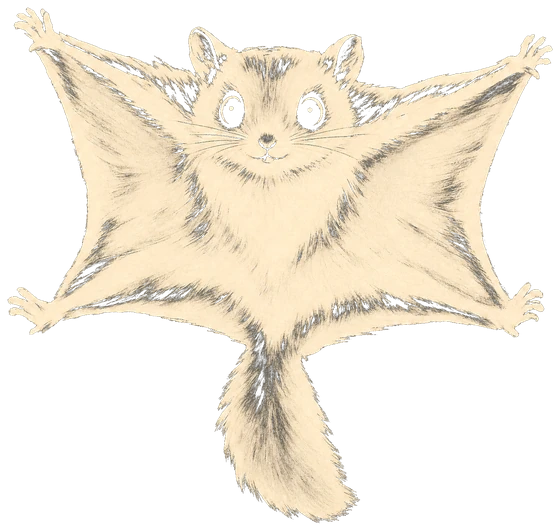
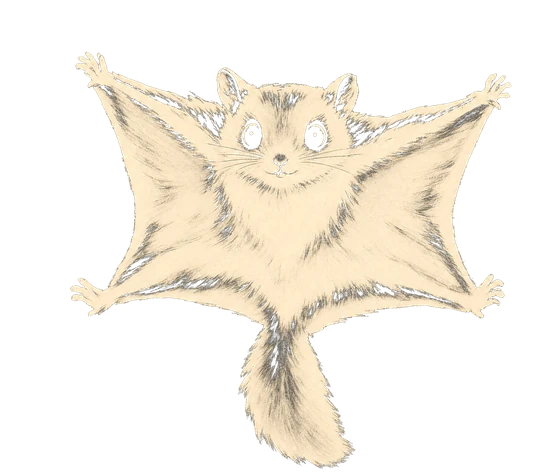
The momonga flies from screen one to screen two
It waits inside the ink, goes down with the flood, and comes back OUT of it —
then glides across the black and lands on the shelf rule beside the 01/01
counter, where it rides the shelf as the page scrolls.

WHY IT LAUNCHES LATE. The obvious build starts the flight at scrollY 0, and it
is wrong: the squirrel is cream and so is the paper, so anything launched over
the hero simply vanishes until the ink catches up with it. The flight therefore
begins at 0.235vh, the moment the flood owns the whole screen. That constraint
turned out to be the better story anyway — the ink does not swallow it, it
throws it.

SCRUBBED, NOT PLAYED. The launch and the glide sit under your finger and run
backwards if you scroll back, the same contract the ink already has. Only the
perch is allowed to persist, because a landing that un-lands looks ridiculous.

THE PATH is a Catmull-Rom spline through five hand-placed points, not a bezier:
Catmull-Rom passes THROUGH every point, so the apex lands where it was put
instead of being pulled somewhere off-screen. It launches backwards off the ink
and to the left, banks at the top — which is where a real glider banks — and
rides one long descending arc across the full width. Phones get a taller, lazier
S; there is no room for that sweep at 390px. Rotation follows the path tangent
but only 55% of the way, because a sprite rotated to the full tangent reads as a
paper plane rather than an animal, and it flips on the bank.
[…]

Changed region(s): [[0.0, 0.0, 1.0, 1.0], [0.6982, 0.4706, 0.7286, 0.5], [0.5464, 0.9118, 0.5768, 0.9412]]

diff --git a/main.js b/main.js
@@ -254,6 +254,174 @@
     blot.addEventListener("click", hop);
   })();
 
+  /* ============================================================
+     THE FLIGHT — the momonga leaves the ink and crosses to screen two
+     ------------------------------------------------------------
+     Scrubbed, not played: the launch and the glide sit under your finger and
+     run backwards if you scroll back, which is the same contract the ink
+     already has. Only the settle at the end is a one-shot, because a landing
+     that un-lands looks ridiculous.
+     Three handoffs, each invisible because the positions are measured rather
+     than guessed: the resting figure in the disc -> the flier -> the perch on
+     the shelf rule.
+     ============================================================ */
+  (function () {
+    var flier = document.querySelector(".flier");
+    var head = document.querySelector(".shelf-head");
+    var num = document.querySelector(".shelf-num");
+    if (!flier || !head) return;
+
+    var poses = {
+      leap:  flier.querySelector(".pose-leap"),
+      glide: flier.querySelector(".pose-glide"),
+      land:  flier.querySelector(".pose-land"),
+      perch: flier.querySelector(".pose-perch")
+    };
+    var order = ["leap", "glide", "land", "perch"];
+    /* where each pose owns the path, as a fraction of the flight */
+    /* the braking pose needs a real window or the cross-fade eats it and the
+       glide snaps straight to a perch */
+    var cues = { leap: 0, glide: 0.16, land: 0.74, perch: 0.975 };
+
+    /* Every pose shares one canvas, and inside it the perched animal's feet sit
+       at 83% of the height — the union crop leaves padding below them. Landing
+       "on" the rule therefore means putting THAT line on the rule, not the box
+       centre, or the squirrel floats with half its frame hanging through the
+       shelf. */
+    var FEET = 0.83;
+    var geo = null;
+    function measure() {
+      /* the launch point is the ink's own centre — the disc's box never moves,
+         because the hero is sticky, so this is a fixed point on screen */
+      var blot = document.querySelector(".blot");
+      var s = blot ? blot.getBoundingClientRect() : { left: innerWidth * 0.5, top: innerHeight * 0.5, width: 0, height: 0 };
+      var f = flier.getBoundingClientRect();
+      var W = innerWidth, H = innerHeight;
+      /* The perch is the right-hand end of the shelf rule, next to the 01/01
+         counter — and the flight ENDS when that rule is 70% down the screen,
+         so the landing point is a real place on a real element rather than a
+         number that happens to look right at one window size. */
+      var hr = head.getBoundingClientRect();
+      var nr = num ? num.getBoundingClientRect() : hr;
+      var endScroll = Math.max(H * 0.45, hr.top + scrollY + hr.height - H * 0.70);
+      return {
+        W: W, H: H,
+        fw: f.width || 200, fh: f.height || 190,
+        /* start: dead centre of the figure already sitting in the ink */
+        sx: s.left + s.width / 2, sy: s.top + s.height / 2,
+        /* end: feet on the rule, just left of the counter. The final scale is
+           0.82, so the feet sit (0.83-0.5)*0.82 of a box-height below centre. */
+        ex: nr.left + nr.width / 2 - (W < 760 ? 0 : 40),
+        ey: hr.top + scrollY + hr.height - endScroll - (FEET - 0.5) * 0.82 * (f.height || 190),
+        end: endScroll,
+        ruleX: nr.left + nr.width / 2 - (W < 760 ? 0 : 40)
+      };
+    }
+
+    /* Catmull-Rom through the control points: it passes THROUGH every point,
+       which is what a hand-placed flight path wants. A bezier would only be
+       pulled toward them and the apex would drift off the screen edge. */
+    function spline(pts, t) {
+      var n = pts.length - 1;
+      var i = Math.min(Math.floor(t * n), n - 1);
+      var u = t * n - i;
+      var p0 = pts[Math.max(0, i - 1)], p1 = pts[i], p2 = pts[i + 1], p3 = pts[Math.min(n, i + 2)];
+      var u2 = u * u, u3 = u2 * u;
+      return [
+        0.5 * ((2 * p1[0]) + (-p0[0] + p2[0]) * u + (2*p0[0] - 5*p1[0] + 4*p2[0] - p3[0]) * u2 + (-p0[0] + 3*p1[0] - 3*p2[0] + p3[0]) * u3),
+        0.5 * ((2 * p1[1]) + (-p0[1] + p2[1]) * u + (2*p0[1] - 5*p1[1] + 4*p2[1] - p3[1]) * u2 + (-p0[1] + 3*p1[1] - 3*p2[1] + p3[1]) * u3)
+      ];
+    }
+
+    function path(g) {
+      var W = g.W, H = g.H, narrow = W < 760;
+      /* It launches BACKWARDS off the ink and to the left, banks at the apex,
+         then rides one long descending glide across the whole width. One turn,
+         at the top, where a real glider banks. On a phone the screen is too
+         narrow for that sweep, so it becomes a tall lazy S instead. */
+      return narrow
+        ? [[g.sx, g.sy], [W * 0.16, H * 0.44], [W * 0.80, H * 0.30], [W * 0.24, H * 0.52], [g.ex, g.ey]]
+        : [[g.sx, g.sy], [W * 0.30, H * 0.30], [W * 0.17, H * 0.13], [W * 0.62, H * 0.30], [g.ex, g.ey]];
+    }
+
+    function ease(p) { return p; }
+
+    var last = -1;
+    function place(p) {
+      if (!geo) geo = measure();
+      var pts = path(geo);
+      var a = spline(pts, Math.min(1, Math.max(0, p)));
+      var b = spline(pts, Math.min(1, Math.max(0, p) + 0.012));
+      var dx = b[0] - a[0], dy = b[1] - a[1];
+      var facingLeft = dx < 0;
+      /* bank into the direction of travel, but only part way: a sprite rotated
+         to the full tangent reads as a paper plane, not an animal */
+      var ang = Math.atan2(dy, Math.abs(dx) < 0.001 ? 0.001 : Math.abs(dx)) * (180 / Math.PI) * 0.55;
+      /* It comes OUT of the flood: small and faint at first, as if the ink
+         itself let go of it, then up to full size for the glide and a little
+         smaller again as it settles onto a shelf that is further away. */
+      var burst = Math.min(1, p / 0.09);
+      var scale = (0.52 + burst * 0.48) * (1 + Math.sin(Math.min(1, p) * Math.PI) * 0.16 - Math.min(1, p) * 0.18);
+      gsap.set(flier, {
+        x: a[0] - geo.fw / 2, y: a[1] - geo.fh / 2,
+        rotation: ang, scaleX: facingLeft ? -scale : scale, scaleY: scale,
+        opacity: burst
+      });
+      /* pose cross-fade — whichever cue we have passed owns the frame */
+      var want = "rest", i;
+      for (i = 0; i < order.length; i++) if (p >= cues[order[i]]) want = order[i];
+      if (want !== last) {
+        last = want;
+        order.forEach(function (k) {
+          if (poses[k]) gsap.to(poses[k], { opacity: k === want ? 1 : 0, duration: 0.28, ease: "power2.out", overwrite: true });
+        });
+      }
+    }
+
+    var de = document.documentElement;
+    /* The flight does NOT start at the top of the page. The squirrel is cream
+       and so is the paper — launched over the hero it would simply vanish
+       until the ink caught up with it. So it waits inside the disc, goes down
+       with the flood, and only comes back out once the ink owns the whole
+       screen. Which is the better story anyway: the ink does not swallow it,
+       it throws it. */
+    function launchAt() { return innerHeight * 0.235; }
+    ScrollTrigger.create({
+      start: launchAt,
+      end: function () { geo = measure(); return Math.max(launchAt() + innerHeight * 0.35, geo.end); },
+      scrub: true, invalidateOnRefresh: true,
+      onUpdate: function (self) {
+        var p = ease(self.progress);
+        de.classList.toggle("in-flight", p > 0.001);
+        place(p);
+      },
+      onRefresh: function () { geo = measure(); }
+    });
+
+    /* Once it is down it stops being a fixed overlay and starts riding the
+       page: its screen position is re-read from the rule every frame, so it
+       stays on the shelf while the shelf scrolls. Then it lets go. */
+    ScrollTrigger.create({
+      start: function () { geo = measure(); return Math.max(launchAt() + innerHeight * 0.35, geo.end); },
+      end: function () { return Math.max(launchAt() + innerHeight * 0.35, measure().end) + innerHeight * 1.15; },
+      scrub: true, invalidateOnRefresh: true,
+      onUpdate: function (self) {
+        if (!geo) geo = measure();
+        var hr = head.getBoundingClientRect();
+        var nr = num ? num.getBoundingClientRect() : hr;
+        var scale = 0.84;
+        gsap.set(flier, {
+          x: nr.left + nr.width / 2 - (innerWidth < 760 ? 0 : 40) - geo.fw / 2,
+          y: hr.bottom - geo.fh * (0.5 + (FEET - 0.5) * scale),
+          rotation: 0, scaleX: scale, scaleY: scale,
+          opacity: 1 - Math.max(0, (self.progress - 0.68) / 0.32)
+        });
+      }
+    });
+
+    addEventListener("resize", function () { geo = null; }, { passive: true });
+  })();
+
   /* ---------- the ink comes alive ----------
      The reference's toy takes the decorations already scattered on its hero and
      drops them into a physics world, where they tumble and pile up. That is why

diff --git a/index-tr.html b/index-tr.html
@@ -39,7 +39,7 @@
   <link rel="preload" as="image" imagesrcset="assets/horizon-900.webp 900w, assets/horizon-1400.webp 1400w, assets/horizon.webp 1920w" imagesizes="110vw" fetchpriority="high">
   <link rel="preload" as="image" href="assets/disc-ink.webp" fetchpriority="high">
   <link rel="preload" as="image" href="assets/mascot.webp" fetchpriority="high">
-  <link rel="stylesheet" href="style.css?v=97">
+  <link rel="stylesheet" href="style.css?v=99">
   <script type="application/ld+json">
   {"@context": "https://schema.org", "@type": "Organization", "name": "217 Products", "url": "https://217products.com/", "logo": "https://217products.com/assets/icon-512.png", "image": "https://217products.com/assets/zen.webp", "description": "Ankara’dan dünyaya açılan bağımsız bir ürün şirketiyiz. Gördüğümüz boşluklara hızlı, sade ve uzun ömürlü ürünler inşa ediyoruz.", "email": "destek217product@gmail.com", "foundingDate": "2026", "address": {"@type": "PostalAddress", "addressLocality": "Ankara", "addressCountry": "TR"}}
   </script>
@@ -69,6 +69,8 @@
 
   <aside class="tate" aria-hidden="true"><span class="seal">二一七</span><span class="tate-t">ANKARA</span></aside>
 
+  <div class="flier" aria-hidden="true"><img class="pose pose-leap" src="assets/momo-leap.webp" alt="" width="560" height="476" decoding="async"><img class="pose pose-glide" src="assets/momo-glide.webp" alt="" width="560" height="476" decoding="async"><img class="pose pose-land" src="assets/momo-land.webp" alt="" width="560" height="476" decoding="async"><img class="pose pose-perch" src="assets/momo-perch.webp" alt="" width="560" height="476" decoding="async"></div>
+
   <main id="main">
 
     <!-- 1 · HERO — one sentence on paper, the plate at its foot -->
@@ -80,7 +82,7 @@
       <div class="specks" aria-hidden="true"><i></i><i></i><i></i><i></i><i></i><i></i><i></i><i></i><i></i><i></i><i></i><i></i><i></i><i></i><i></i><i></i></div>
 
       <h1 class="hero-head rise">
-        <span class="hero-line">En iyinin <span class="blot"><img class="blot-ink" src="assets/disc-ink.webp" alt="" width="320" height="320" decoding="sync" fetchpriority="high"><i class="blot-fill"></i><img class="blot-figure" src="assets/mascot.webp" alt="" width="560" height="530" decoding="sync" fetchpriority="high"></span> ardında</span>
+        <span class="hero-line">En iyinin <span class="blot"><img class="blot-ink" src="assets/disc-ink.webp" alt="" width="320" height="320" decoding="sync" fetchpriority="high"><i class="blot-fill"></i><img class="blot-figure" src="assets/mascot.webp" alt="" width="560" height="476" decoding="sync" fetchpriority="high"></span> ardında</span>
         <span class="hero-line">hep bir <em>fikir</em> vardır.</span>
       </h1>
 
@@ -251,6 +253,6 @@
   <script src="vendor/ScrollTrigger.min.js?v=3.15.0"></script>
   <script src="vendor/lenis.min.js?v=1.3.25"></script>
   <script type="module" src="globe3d.js?v=17"></script>
-  <script src="main.js?v=50"></script>
+  <script src="main.js?v=55"></script>
 </body>
 </html>

diff --git a/index.html b/index.html
@@ -39,7 +39,7 @@
   <link rel="preload" as="image" imagesrcset="assets/horizon-900.webp 900w, assets/horizon-1400.webp 1400w, assets/horizon.webp 1920w" imagesizes="110vw" fetchpriority="high">
   <link rel="preload" as="image" href="assets/disc-ink.webp" fetchpriority="high">
   <link rel="preload" as="image" href="assets/mascot.webp" fetchpriority="high">
-  <link rel="stylesheet" href="style.css?v=97">
+  <link rel="stylesheet" href="style.css?v=99">
   <script type="application/ld+json">
   {"@context": "https://schema.org", "@type": "Organization", "name": "217 Products", "url": "https://217products.com/", "logo": "https://217products.com/assets/icon-512.png", "image": "https://217products.com/assets/zen.webp", "description": "An independent product company reaching from Ankara to the world. Where we see a gap, we build products that are fast, simple, and made to last.", "email": "destek217product@gmail.com", "foundingDate": "2026", "address": {"@type": "PostalAddress", "addressLocality": "Ankara", "addressCountry": "TR"}}
   </script>
@@ -69,6 +69,8 @@
 
   <aside class="tate" aria-hidden="true"><span class="seal">二一七</span><span class="tate-t">ANKARA</span></aside>
 
+  <div class="flier" aria-hidden="true"><img class="pose pose-leap" src="assets/momo-leap.webp" alt="" width="560" height="476" decoding="async"><img class="pose pose-glide" src="assets/momo-glide.webp" alt="" width="560" height="476" decoding="async"><img class="pose pose-land" src="assets/momo-land.webp" alt="" width="560" height="476" decoding="async"><img class="pose pose-perch" src="assets/momo-perch.webp" alt="" width="560" height="476" decoding="async"></div>
+
   <main id="main">
 
     <!-- 1 · HERO (3D parallax) -->
@@ -80,7 +82,7 @@
       <div class="specks" aria-hidden="true"><i></i><i></i><i></i><i></i><i></i><i></i><i></i><i></i><i></i><i></i><i></i><i></i><i></i><i></i><i></i><i></i></div>
 
       <h1 class="hero-head rise">
-        <span class="hero-line">Behind the <span class="blot"><img class="blot-ink" src="assets/disc-ink.webp" alt="" width="320" height="320" decoding="sync" fetchpriority="high"><i class="blot-fill"></i><img class="blot-figure" src="assets/mascot.webp" alt="" width="560" height="530" decoding="sync" fetchpriority="high"></span> best,</span>
+        <span class="hero-line">Behind the <span class="blot"><img class="blot-ink" src="assets/disc-ink.webp" alt="" width="320" height="320" decoding="sync" fetchpriority="high"><i class="blot-fill"></i><img class="blot-figure" src="assets/mascot.webp" alt="" width="560" height="476" decoding="sync" fetchpriority="high"></span> best,</span>
         <span class="hero-line">there is always an <em>idea</em>.</span>
       </h1>
 
@@ -251,6 +253,6 @@
   <script src="vendor/ScrollTrigger.min.js?v=3.15.0"></script>
   <script src="vendor/lenis.min.js?v=1.3.25"></script>
   <script type="module" src="globe3d.js?v=17"></script>
-  <script src="main.js?v=50"></script>
+  <script src="main.js?v=55"></script>
 </body>
 </html>

diff --git a/style.css b/style.css
@@ -533,7 +533,7 @@ html:not(.scrolled) .blot { pointer-events: auto; cursor: pointer; }
    first frame. */
 .blot-figure {
   position: absolute; inset: 0; margin: auto;
-  width: 70%; height: 66.3%; max-width: none;
+  width: 88%; height: 74.8%; max-width: none;
   will-change: transform, opacity; user-select: none; pointer-events: none;
 }
 .blot .blot-fill {
@@ -1036,3 +1036,29 @@ html, body { max-width: 100%; overflow-x: hidden; overflow-x: clip; }
   .hero-head { font-size: clamp(34px, 5.4vw, 72px); }
   .blot { width: 2.1em; height: 2.1em; }
 }
+
+/* ============================================================
+   THE FLIGHT
+   ------------------------------------------------------------
+   The momonga leaves the ink and glides across to the next screen.
+   It has to live OUTSIDE the hero: the hero is z-index 0 and the shelf that
+   slides over it is z-index 2, so a squirrel parked inside the hero would be
+   painted underneath the very screen it is supposed to land on. Fixed, above
+   all page content, but BELOW the header — so it passes behind the floating
+   capsule, which reads as depth rather than as a collision.
+   Hidden until the script mounts it, so no-JS and reduced-motion visitors keep
+   the resting figure inside the disc and never see a stray squirrel.
+   ============================================================ */
+.flier {
+  position: fixed; left: 0; top: 0; z-index: 38;
+  width: clamp(158px, 16.5vw, 286px); aspect-ratio: 560 / 476;
+  pointer-events: none; visibility: hidden; opacity: 0;
+  will-change: transform, opacity;
+}
+html.in-flight .flier { visibility: visible; }
+.flier .pose {
+  position: absolute; inset: 0; width: 100%; height: 100%;
+  object-fit: contain; opacity: 0; user-select: none;
+  will-change: opacity;
+}
+.flier .pose-leap { opacity: 1; }
